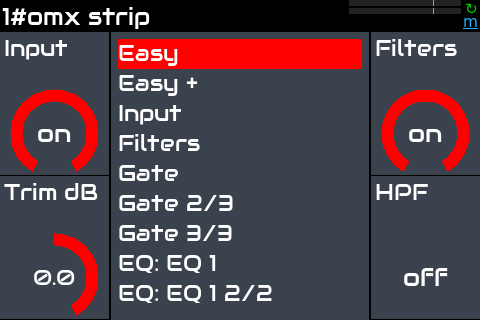
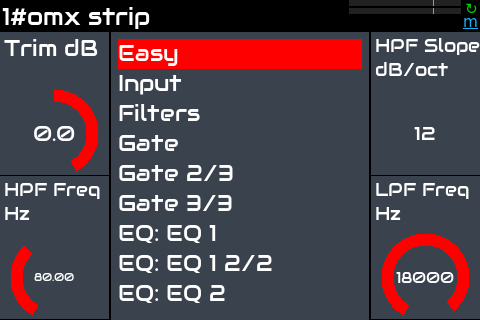
docs: the panel pictures taken again with the four fixes, values and curves drawn, one Easy page
tools/panel_screens.py over this branch with lane/omx-panel-join-by-param, lane/omx-curve-points-marks and
lane/zynthian-ui-47-rta-dual-trace-so1 merged, in the trixie container zynthian-shots:8: omx-clap-host 0.36.0 with
omx-clap-core lane/param-of-contract-symbol, omx-panel 0.17.3 with lane/easy-from-declared-page, the renderer loaded
by its default name (no ZYNTHIAN_OMX_PANEL_RENDER). 336 plugin pictures (7 plugins, 480x320 and 800x480, stock and
vintage) and 76 of the channel-strip example; the 29 here are among them.

omx-comp's panel shows each knob at its value (Threshold -18, Ratio 4.000, Knee 6.000) and its transfer curve; the
reverb its decay; omx-strip lists one Easy page (Trim, HPF Freq, HPF Slope, LPF Freq), so its pages renumber (Input is
01). The page says what was fixed and where, and what is still wrong: omx-eq8's response curve (omx-dsp's curve
refuses the slope unit dBPerOct the description gives, -538), omx-delay's taps (no point, drawn by no code here), and
the unit word ratio (the contract declares no :1). The tool's header loads the renderer by its default name.

diff --git a/tools/panel_screens.py b/tools/panel_screens.py
@@ -13,8 +13,10 @@
 #
 #   Xvfb :9 -screen 0 1024x768x24 &  DISPLAY=:9 W=480 H=320 WIRING=V4 LOOK=stock OUT=/tmp/shots \
 #   PHD_PORT=17556 PHD_URIS="clap:/usr/lib/clap/omx-strip.clap#org.openmixer.strip" \
-#   ZYNTHIAN_OMX_PANEL_RENDER=/usr/lib/x86_64-linux-gnu/libomx-panel-render.so.1 \
 #   python3 -m pytest -s tools/panel_screens.py
+#
+# The renderer is libomx-panel-render.so.1 by its default name (zynthian_omx_panel_view.LIBRARY);
+# ZYNTHIAN_OMX_PANEL_RENDER names another build of it.
 #
 # LOOK=vintage sources zynthian-sys's config/ui-looks/openmixer-vintage.sh (VINTAGE names the file). The daemon must run
 # the plugin (on a desk with no qualification records: `require_pins 0` in its -c file), or the page cut misses the

diff --git a/docs/openmixer-panels-on-zynthian.md b/docs/openmixer-panels-on-zynthian.md
@@ -10,9 +10,10 @@ engine of this fork. Its controls reach the screen in one of two ways:
   plugin-hostd runs the plugin, the pages are the ones the plugin declares (CLAP remote-controls), cut again at four.
 - **The panel screen.** A plugin whose panel has a curve, a meter or a bar group also gets
   `zyngui/zynthian_widget_omx_panel.py` in the list's place: omx-panel's renderer
-  (`libomx-panel-render`) draws the sections of the page's controls, the curve's section above them on every page,
-  and the meters. omx-comp, omx-eq8, omx-geq and omx-multiband have one; omx-strip, omx-delay and omx-reverb have
-  none and show the controller pages alone.
+  (`libomx-panel-render.so.1`) draws the sections of the page's controls with their values, the curve's section above
+  them on every page (plugin-hostd computes the curve from the plugin's values: `curve_bind`, `curve_points`), and the
+  meters. omx-comp, omx-eq8, omx-geq, omx-multiband, omx-delay and omx-reverb have one; omx-strip has none and shows
+  the controller pages alone.
 
 A page is named by the labels the panel declares: `Gate`, `Gate 2/3`, `EQ: EQ 1`, `Bands: Band 1 – Band 2`. A
 controller's title is its label and its unit's symbol as the contract writes it (`Trim dB`, `HPF Slope dB/oct`,
@@ -24,8 +25,9 @@ controller's title is its label and its unit's symbol as the contract writes it 
 controllers, the panel screen) on a Tk display of the Zynthian's size, adds each plugin to a real plugin-hostd
 through this tree's engine, and takes every page the screen lists from the X display. Only the UI object is a
 stand-in. The pictures here were taken in a debian trixie container (Xvfb, jackd on the dummy driver,
-plugin-hostd 0.22.4, omx-panel 0.17.3, omx-plugins 0.22.4) at 480x320 (`ZYNTHIAN_WIRING_LAYOUT=V4`) and 800x480
-(`V5`), with the stock look unless said. The run is described at the top of the tool.
+plugin-hostd 0.22.4, omx-clap-host 0.36.0, omx-panel 0.17.3, omx-plugins 0.22.4) at 480x320
+(`ZYNTHIAN_WIRING_LAYOUT=V4`) and 800x480 (`V5`), with the stock look unless said; the renderer is loaded by its
+default name. The run is described at the top of the tool.
 
 ## omx-strip, the channel strip, page by page
 
@@ -37,8 +39,7 @@ omx plugins. It has no curve or meter, so Zynthian shows it as controller pages.
 
 | Page | The four controls | What the group does |
 |---|---|---|
-| Easy | Input, Trim dB, Filters, HPF | The controls a quick setup needs: the input stage on, its trim, the filters on, the high-pass on. |
-| Easy (second) | Trim dB, HPF Freq Hz, HPF Slope dB/oct, LPF Freq Hz | The plugin's own Easy page, as it declares it (see below). |
+| Easy | Trim dB, HPF Freq Hz, HPF Slope dB/oct, LPF Freq Hz | The controls a quick setup needs, as the plugin declares its Easy page: the input trim, the high-pass frequency and slope, the low-pass frequency. |
 | Input | Input | The input stage on or off (its trim is on the Easy page). |
 | Filters | Filters, HPF, LPF, LPF Slope dB/oct | The high-pass and low-pass filters: the block on, each filter on, the low-pass slope. |
 | Gate, Gate 2/3, Gate 3/3 | Gate, Threshold dB, Ratio, Range dB; Attack ms, Release ms, Knee Start dB, Knee End dB; Hold ms, Hysteresis dB | The noise gate: on, where it opens, how hard and how far it closes, how fast, its soft knee, how long it holds open and the gap between opening and closing. |
@@ -49,26 +50,25 @@ omx plugins. It has no curve or meter, so Zynthian shows it as controller pages.
 
 | | |
 |---|---|
-| ![Easy](panels/omx-strip-480x320-stock-00-easy.png) | ![Easy, the plugin's own](panels/omx-strip-480x320-stock-01-easy.png) |
-| ![Input](panels/omx-strip-480x320-stock-02-input.png) | ![Filters](panels/omx-strip-480x320-stock-03-filters.png) |
-| ![Gate](panels/omx-strip-480x320-stock-04-gate.png) | ![Gate 2/3](panels/omx-strip-480x320-stock-05-gate-2-3.png) |
-| ![Gate 3/3](panels/omx-strip-480x320-stock-06-gate-3-3.png) | ![EQ: EQ 1](panels/omx-strip-480x320-stock-07-eq-eq-1.png) |
-| ![EQ: EQ 1 2/2](panels/omx-strip-480x320-stock-08-eq-eq-1-2-2.png) | ![EQ: EQ 2](panels/omx-strip-480x320-stock-09-eq-eq-2.png) |
-| ![EQ: EQ 2 2/2](panels/omx-strip-480x320-stock-10-eq-eq-2-2-2.png) | ![EQ: EQ 3](panels/omx-strip-480x320-stock-11-eq-eq-3.png) |
-| ![EQ: EQ 3 2/2](panels/omx-strip-480x320-stock-12-eq-eq-3-2-2.png) | ![EQ: EQ 4](panels/omx-strip-480x320-stock-13-eq-eq-4.png) |
-| ![EQ: EQ 4 2/2](panels/omx-strip-480x320-stock-14-eq-eq-4-2-2.png) | ![Comp](panels/omx-strip-480x320-stock-15-comp.png) |
-| ![Comp 2/3](panels/omx-strip-480x320-stock-16-comp-2-3.png) | ![Comp 3/3](panels/omx-strip-480x320-stock-17-comp-3-3.png) |
-| ![Order](panels/omx-strip-480x320-stock-18-order.png) | |
+| ![Easy](panels/omx-strip-480x320-stock-00-easy.png) | ![Input](panels/omx-strip-480x320-stock-01-input.png) |
+| ![Filters](panels/omx-strip-480x320-stock-02-filters.png) | ![Gate](panels/omx-strip-480x320-stock-03-gate.png) |
+| ![Gate 2/3](panels/omx-strip-480x320-stock-04-gate-2-3.png) | ![Gate 3/3](panels/omx-strip-480x320-stock-05-gate-3-3.png) |
+| ![EQ: EQ 1](panels/omx-strip-480x320-stock-06-eq-eq-1.png) | ![EQ: EQ 1 2/2](panels/omx-strip-480x320-stock-07-eq-eq-1-2-2.png) |
+| ![EQ: EQ 2](panels/omx-strip-480x320-stock-08-eq-eq-2.png) | ![EQ: EQ 2 2/2](panels/omx-strip-480x320-stock-09-eq-eq-2-2-2.png) |
+| ![EQ: EQ 3](panels/omx-strip-480x320-stock-10-eq-eq-3.png) | ![EQ: EQ 3 2/2](panels/omx-strip-480x320-stock-11-eq-eq-3-2-2.png) |
+| ![EQ: EQ 4](panels/omx-strip-480x320-stock-12-eq-eq-4.png) | ![EQ: EQ 4 2/2](panels/omx-strip-480x320-stock-13-eq-eq-4-2-2.png) |
+| ![Comp](panels/omx-strip-480x320-stock-14-comp.png) | ![Comp 2/3](panels/omx-strip-480x320-stock-15-comp-2-3.png) |
+| ![Comp 3/3](panels/omx-strip-480x320-stock-16-comp-3-3.png) | ![Order](panels/omx-strip-480x320-stock-17-order.png) |
 
 On the V5's 800x480 screen the list fills the left and the four controls stand on the right:
 
 ![omx-strip on a V5: the page list](panels/omx-strip-800x480-stock-home.png)
-![omx-strip on a V5: EQ: EQ 1](panels/omx-strip-800x480-stock-07-eq-eq-1.png)
+![omx-strip on a V5: EQ: EQ 1](panels/omx-strip-800x480-stock-06-eq-eq-1.png)
 
 With the OpenMixer vintage look (`zynthian-sys config/ui-looks/openmixer-vintage.sh`) the controllers are drawn by
 omx-panel's renderer:
 
-![omx-strip, vintage look: Gate](panels/omx-strip-480x320-vintage-04-gate.png)
+![omx-strip, vintage look: Gate](panels/omx-strip-480x320-vintage-03-gate.png)
 
 ## The other control groups: curves, meters, bar groups
 
@@ -76,30 +76,37 @@ omx-strip shows switches, knobs and choices, but none of the panel's drawn group
 
 | Group | Plugin | Picture |
 |---|---|---|
-| a transfer curve, a gain-reduction bar and four meters | omx-comp | ![omx-comp: Easy](panels/omx-comp-480x320-stock-00-easy.png) |
+| a transfer curve, a gain-reduction bar and four meters | omx-comp | ![omx-comp: Easy](panels/omx-comp-480x320-stock-00-easy.png) ![omx-comp: Comp](panels/omx-comp-480x320-stock-02-comp.png) |
 | the EQ's response curve | omx-eq8 | ![omx-eq8: Bands: Band 1 – Band 2](panels/omx-eq8-480x320-stock-02-bands-band-1-band-2.png) |
 | a bar group (31 bands) | omx-geq | ![omx-geq: Geq](panels/omx-geq-480x320-stock-02-geq.png) |
-| a bar group (the crossovers), curve, gain reduction and five meters | omx-multiband | ![omx-multiband: Split](panels/omx-multiband-480x320-stock-02-split.png) |
-| controller pages only | omx-delay, omx-reverb | ![omx-delay: Taps](panels/omx-delay-480x320-stock-03-taps.png) ![omx-reverb: Reverb](panels/omx-reverb-480x320-stock-01-reverb.png) |
+| a bar group (the crossovers), gain reduction and five meters | omx-multiband | ![omx-multiband: Split](panels/omx-multiband-480x320-stock-02-split.png) |
+| a time response: a reverb's decay, a delay's taps | omx-reverb, omx-delay | ![omx-reverb: Reverb](panels/omx-reverb-480x320-stock-01-reverb.png) ![omx-delay: Taps](panels/omx-delay-480x320-stock-03-taps.png) |
+
+## What was fixed for these pictures
+
+Taken first on 2026-11-28 with four faults, each fixed where it was caused and the pictures taken again:
+
+- **The panel screen drew no value.** The renderer's layout names a CLAP control by its contract symbol
+  (`thresholdDb`) and gives the parameter number in `param`; the panel screen keyed the engine's controllers as
+  `p<number>`, so no control was bound. It joins them by `param` now (this fork, lane/omx-panel-join-by-param).
+- **No curve was drawn.** The engine binds a curve by the description's symbols (`threshold=thresholdDb:dB`), and
+  omx-clap-core's host took a CLAP parameter by its number only (-103); it takes the symbol the plugin's parameter
+  contract keeps now (omx-clap-core lane/param-of-contract-symbol). And `curve_points` answers a marks word after
+  the count, which this fork read as the first point (lane/omx-curve-points-marks).
+- **omx-strip showed two Easy pages.** omx-panel derived one Easy page from the scanned descriptor and kept the one
+  omx-strip declares; the plugin's declared Easy page is the one Easy page now (omx-panel
+  lane/easy-from-declared-page, docs/panel-layout.md there).
+- **This fork loaded `libomx-panel-render.so.0`**, which omx-panel 0.17 does not ship: a device drew no panel
+  screen. It loads `.so.1` (lane/zynthian-ui-47-rta-dual-trace-so1, #51), and these pictures set no override.
 
 ## What these pictures still show wrong
 
-These are open, each to be fixed where it is caused; the pictures will be taken again with the tool when they are:
-
-- **The panel screen draws no value and the same part on every page.** The renderer's layout names a CLAP
-  control by its contract symbol (`thresholdDb`) and gives the parameter number in `param`; the panel screen keys
-  the engine's controllers as `p<number>` (`zyngui/zynthian_widget_omx_panel.py`, `engine_key`), so no control is
-  bound: every knob rests at its minimum, the value boxes are empty, and `screen_part` keeps no section of the page
-  (omx-geq and omx-multiband draw an empty frame).
-- **No curve is drawn.** The engine binds a curve by the description's symbols
-  (`curve_bind ... threshold=thresholdDb:dB`); omx-clap-core's host takes a CLAP parameter by its number only and
-  answers `reply.host.param-symbol-invalid`.
-- **omx-strip shows two Easy pages.** omx-panel derives the Easy controls from the descriptor (Input, Trim, Filters,
-  HPF); omx-strip serves an Easy page of other controls (Trim, HPF Freq, HPF Slope, LPF Freq). The second one is
-  marked `+` in the list.
-- **This fork loads `libomx-panel-render.so.0`** (`zyngine/zynthian_omx_panel_view.py`, `LIBRARY`); omx-panel ships
-  `libomx-panel-render.so.1` since its ABI break (#240) and keeps no `.so.0`. With omx-panel 0.17 installed and no
-  `ZYNTHIAN_OMX_PANEL_RENDER`, a device draws no panel screen at all, only the controller pages. These pictures set
-  `ZYNTHIAN_OMX_PANEL_RENDER=/usr/lib/x86_64-linux-gnu/libomx-panel-render.so.1`; the HOLD branch
-  lane/zynthian-ui-47-rta-dual-trace-so1 (#51) carries the move.
-- **`Ratio ratio`.** The contract's symbol for the unit `ratio` is the word `ratio`.
+- **omx-eq8's response curve is an empty frame.** Its description gives the head filters' slope roles the unit
+  `dBPerOct` (`hpf_slope=hpf_slope:dBPerOct`), the PARAM_UNITS id of the parameter; omx-dsp's `CURVE_UNITS` has no
+  `dBPerOct` and `omx_curve_unit_accepted` takes only `none` or `dB` for a slope, so plugin-hostd refuses the binding
+  (-538, reply.plugin-hostd.curve-unit-refused) and the curve is never bound. Without the head filters' six terms
+  the same binding draws (omx-dsp's to fix: its curve declaration says a host sends the unit it was given).
+- **omx-delay's taps are not drawn.** Its `time_response` answers no point and the taps after them (`stems ...`);
+  this fork's panel draws points only.
+- **`Ratio ratio`.** The contract's symbol for the unit `ratio` (omx-contract-data's param domain, PARAM_UNITS
+  `ratio`, `x-symbol` "ratio") is the word itself; the contract declares no `:1` form, so the title shows the word.
